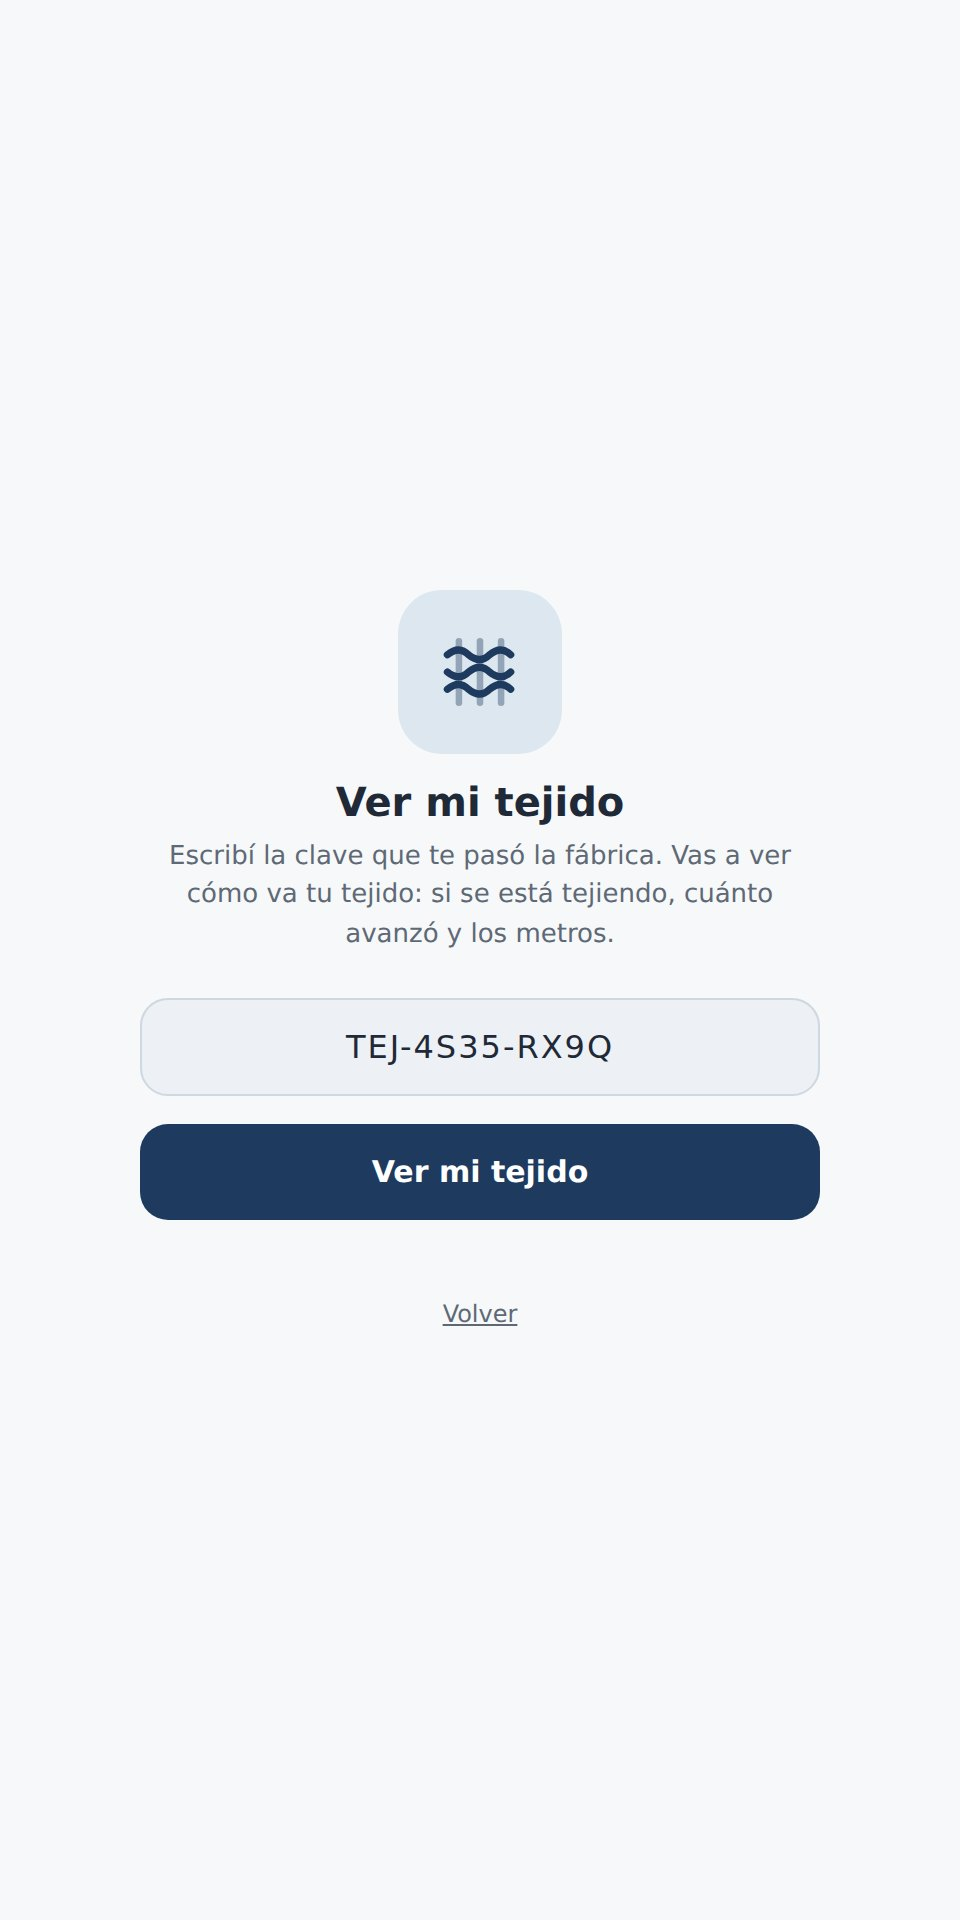
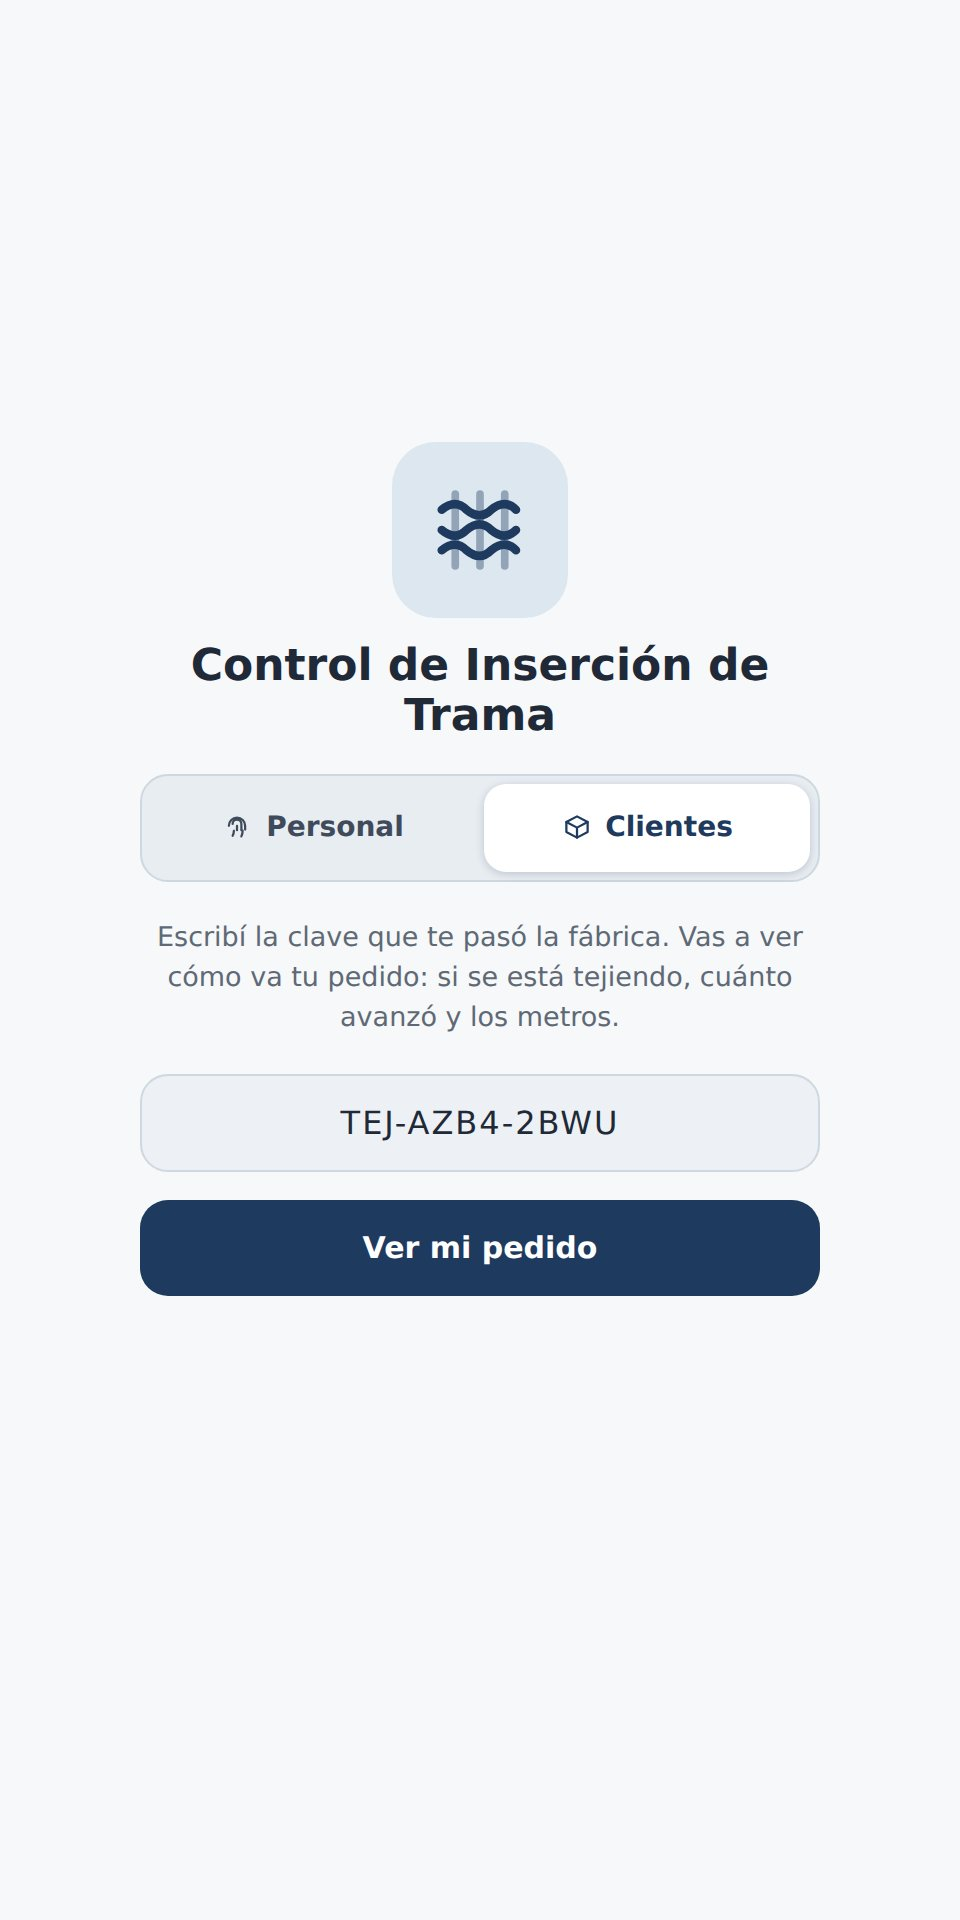
Add files via upload

Changed region(s): [[0.125, 0.2188, 0.875, 0.6875], [0.8438, 0.4062, 0.875, 0.4375]]

diff --git a/index.html b/index.html
@@ -33,7 +33,7 @@
 <a href="#web-2-2" class="n1" data-pad="2">2.2 · Registrar la huella dactilar por primera vez</a>
 <a href="#web-2-3" class="n1" data-pad="2">2.3 · No se puede ingresar con la huella (recupero de acceso)</a>
 <a href="#web-2-4" class="n1" data-pad="2">2.4 · Continuar sin iniciar sesión (modo invitado)</a>
-<a href="#web-2-5" class="n1" data-pad="2">2.5 · Soy cliente: ver mi tejido</a>
+<a href="#web-2-5" class="n1" data-pad="2">2.5 · Clientes: ver cómo va el pedido</a>
 <div class="ngrupo"><a href="#web-3" class="n0">3 · Pantalla de Inicio</a><button type="button" class="plg" aria-label="Plegar" data-num="3"></button></div>
 <a href="#web-3-1" class="n1" data-pad="3">3.1 · Información de sesión</a>
 <a href="#web-3-2" class="n1" data-pad="3">3.2 · Dibujo actual</a>
@@ -99,7 +99,7 @@
   </div>
 
   <div class="pane" data-pane="web">
-<div class="qs"><h2>Guía de inicio rápido</h2><div class="qs-sub">Del primer ingreso al primer dibujo tejido, en unos minutos</div><span class="qs-et">Antes de empezar</span><div class="qs-antes"><div><b>Un celular o computadora con navegador</b><span>No hace falta instalar nada: la aplicación se abre desde el navegador y funciona igual en Android, iPhone o PC.</span></div><div><b>Conexión a la red de la fábrica</b><span>La misma red WiFi a la que está conectado el nodo de control del telar. Sin red, la aplicación muestra el último estado conocido pero no puede enviar órdenes.</span></div><div><b>Un usuario registrado</b><span>Si es la primera vez, la propia aplicación guía el registro con huella dactilar. Los tres primeros usuarios se registran libremente; del cuarto en adelante hace falta un código de invitación.</span></div></div><span class="qs-et">Los pasos</span><div class="qs-pasos"><div class="qs-paso"><div class="n"></div><div class="tx"><b>Abrir la aplicación</b><p>Entrar a la dirección del sistema desde el navegador del celular. Conviene agregarla a la pantalla de inicio: queda como un ícono más y se abre a pantalla completa, sin la barra del navegador.</p><div class="tip">Aparece la pantalla de ingreso con el nombre del sistema y los dos botones de acceso.</div></div></div><div class="qs-paso"><div class="n"></div><div class="tx"><b>Ingresar con la huella</b><p>Escribir el nombre de usuario y tocar &quot;Entrar con huella dactilar&quot;. El teléfono pide apoyar el dedo en su lector. La huella nunca sale del dispositivo: solo viaja una firma que el servidor verifica.</p><div class="tip">Si es la primera vez, tocar &quot;Registrar mi huella dactilar&quot; y guardar el código de recuperación que aparece. Es la única forma de recuperar el acceso si el lector falla o cambiás de teléfono. Aparece en ese momento y después se puede volver a ver desde el perfil, verificando la huella.</div></div></div><div class="qs-paso"><div class="n"></div><div class="tx"><b>Reconocer la pantalla de inicio</b><p>Arriba está quién inició sesión y el dibujo que está en edición. Abajo, los accesos al Editor y a la Biblioteca. El estado del telar en tiempo real se ve en el Editor, arriba de la grilla, y refleja la máquina real aunque alguien la haya movido desde la botonera.</p><div class="tip">Si en el Editor dice &quot;Sin datos del ESP32&quot; o &quot;Sin conexión&quot;, el nodo no está respondiendo. Conviene revisar la red antes de intentar cualquier orden.</div></div></div><div class="qs-paso"><div class="n"></div><div class="tx"><b>Definir el tamaño del dibujo</b><p>En el Editor, escribir cuántas filas y columnas tiene el dibujo y tocar Aplicar. Cada fila es una pasada con una sola bobina (en cada pasada entra una sola trama), que se teje en una o más pasadas seguidas; cada columna es una bobina. Las filas van de 1 a 300 y las columnas de 1 a 8, porque cada columna es una bobina de selección y ninguna máquina tiene más.</p><div class="tip">Si se escribe un número fuera de ese rango, la aplicación avisa y lo corrige. Cambiar el tamaño reinicia la matriz, así que conviene definirlo antes de dibujar.</div></div></div><div class="qs-paso"><div class="n"></div><div class="tx"><b>Dibujar la matriz</b><p>Tocar las celdas para marcarlas. Una celda marcada muestra un 1 y significa que esa bobina se activa en esa pasada. Tocarla de nuevo la desmarca. Cada fila lleva una sola bobina: si se toca otra celda de la misma fila, la anterior se desmarca sola.</p><div class="tip">Para repetir una pasada, cada fila lleva un número de repeticiones al costado: cuántas pasadas seguidas se teje esa misma fila. Para alternar bobinas pasada por pasada, cada una va en su fila y esas filas se agrupan con Intercalar. El botón Limpiar vacía la matriz sin cambiar su tamaño.</div></div></div><div class="qs-paso"><div class="n"></div><div class="tx"><b>Guardar el dibujo</b><p>Ponerle un nombre y tocar Guardar. La aplicación pregunta si se guarda sobre el dibujo actual o se crea uno nuevo. Los nombres no se pueden repetir.</p><div class="tip">Un dibujo que ya se usó para tejer no se puede borrar, porque queda registrado en el historial de producción. Sí se le puede cambiar el nombre.</div></div></div><div class="qs-paso"><div class="n"></div><div class="tx"><b>Cargar y ejecutar</b><p>Desde la Biblioteca, elegir el dibujo y asignarlo al telar. Con el dibujo cargado, el botón de reproducción arranca la máquina.</p><div class="tip">Pausa detiene conservando la posición y Retroceder mueve una pasada hacia atrás, para corregir tras una rotura de hilo. Las dos funcionan en cualquier momento, salvo en solo sensado (ver abajo).</div></div></div></div><span class="qs-et">Conviene saber</span><div class="qs-saber"><ul><li>La botonera del telar sigue funcionando siempre. La aplicación no la reemplaza: se suma en paralelo.</li><li>Si se corta la conexión, el sistema no acciona nada y el telar queda como estaba. Al volver la red no ejecuta órdenes acumuladas.</li><li>Si la barra del editor dice «Solo sensado», la página no mueve el telar: se maneja con la botonera. El interruptor de esa misma barra vuelve a prender el control.</li><li>El modo oscuro está pensado para las horas de poca luz en la planta y se activa desde la pantalla de inicio.</li><li>La ficha técnica de cada dibujo se descarga en PDF desde el editor, para llevarla impresa al puesto.</li></ul></div></div><p>Explicación completa, paso a paso, de cómo se usa la aplicación web de control del telar: la secuencia de operaciones, qué hace cada pantalla y qué significa cada botón. Cada sección incluye las capturas de la aplicación tal como se ve hoy.</p>
+<div class="qs"><h2>Guía de inicio rápido</h2><div class="qs-sub">Del primer ingreso al primer dibujo tejido, en unos minutos</div><span class="qs-et">Antes de empezar</span><div class="qs-antes"><div><b>Un celular o computadora con navegador</b><span>No hace falta instalar nada: la aplicación se abre desde el navegador y funciona igual en Android, iPhone o PC.</span></div><div><b>Conexión a la red de la fábrica</b><span>La misma red WiFi a la que está conectado el nodo de control del telar. Sin red, la aplicación muestra el último estado conocido pero no puede enviar órdenes.</span></div><div><b>Un usuario registrado</b><span>Si es la primera vez, la propia aplicación guía el registro con huella dactilar. Los tres primeros usuarios se registran libremente; del cuarto en adelante hace falta un código de invitación.</span></div></div><span class="qs-et">Los pasos</span><div class="qs-pasos"><div class="qs-paso"><div class="n"></div><div class="tx"><b>Abrir la aplicación</b><p>Entrar a la dirección del sistema desde el navegador del celular. Conviene agregarla a la pantalla de inicio: queda como un ícono más y se abre a pantalla completa, sin la barra del navegador.</p><div class="tip">Aparece la pantalla de ingreso, con las pestañas «Personal» y «Clientes»; en la del personal están los dos botones de acceso.</div></div></div><div class="qs-paso"><div class="n"></div><div class="tx"><b>Ingresar con la huella</b><p>Escribir el nombre de usuario y tocar &quot;Entrar con huella dactilar&quot;. El teléfono pide apoyar el dedo en su lector. La huella nunca sale del dispositivo: solo viaja una firma que el servidor verifica.</p><div class="tip">Si es la primera vez, tocar &quot;Registrar mi huella dactilar&quot; y guardar el código de recuperación que aparece. Es la única forma de recuperar el acceso si el lector falla o cambiás de teléfono. Aparece en ese momento y después se puede volver a ver desde el perfil, verificando la huella.</div></div></div><div class="qs-paso"><div class="n"></div><div class="tx"><b>Reconocer la pantalla de inicio</b><p>Arriba está quién inició sesión y el dibujo que está en edición. Abajo, los accesos al Editor y a la Biblioteca. El estado del telar en tiempo real se ve en el Editor, arriba de la grilla, y refleja la máquina real aunque alguien la haya movido desde la botonera.</p><div class="tip">Si en el Editor dice &quot;Sin datos del ESP32&quot; o &quot;Sin conexión&quot;, el nodo no está respondiendo. Conviene revisar la red antes de intentar cualquier orden.</div></div></div><div class="qs-paso"><div class="n"></div><div class="tx"><b>Definir el tamaño del dibujo</b><p>En el Editor, escribir cuántas filas y columnas tiene el dibujo y tocar Aplicar. Cada fila es una pasada con una sola bobina (en cada pasada entra una sola trama), que se teje en una o más pasadas seguidas; cada columna es una bobina. Las filas van de 1 a 300 y las columnas de 1 a 8, porque cada columna es una bobina de selección y ninguna máquina tiene más.</p><div class="tip">Si se escribe un número fuera de ese rango, la aplicación avisa y lo corrige. Cambiar el tamaño reinicia la matriz, así que conviene definirlo antes de dibujar.</div></div></div><div class="qs-paso"><div class="n"></div><div class="tx"><b>Dibujar la matriz</b><p>Tocar las celdas para marcarlas. Una celda marcada muestra un 1 y significa que esa bobina se activa en esa pasada. Tocarla de nuevo la desmarca. Cada fila lleva una sola bobina: si se toca otra celda de la misma fila, la anterior se desmarca sola.</p><div class="tip">Para repetir una pasada, cada fila lleva un número de repeticiones al costado: cuántas pasadas seguidas se teje esa misma fila. Para alternar bobinas pasada por pasada, cada una va en su fila y esas filas se agrupan con Intercalar. El botón Limpiar vacía la matriz sin cambiar su tamaño.</div></div></div><div class="qs-paso"><div class="n"></div><div class="tx"><b>Guardar el dibujo</b><p>Ponerle un nombre y tocar Guardar. La aplicación pregunta si se guarda sobre el dibujo actual o se crea uno nuevo. Los nombres no se pueden repetir.</p><div class="tip">Un dibujo que ya se usó para tejer no se puede borrar, porque queda registrado en el historial de producción. Sí se le puede cambiar el nombre.</div></div></div><div class="qs-paso"><div class="n"></div><div class="tx"><b>Cargar y ejecutar</b><p>Desde la Biblioteca, elegir el dibujo y asignarlo al telar. Con el dibujo cargado, el botón de reproducción arranca la máquina.</p><div class="tip">Pausa detiene conservando la posición y Retroceder mueve una pasada hacia atrás, para corregir tras una rotura de hilo. Las dos funcionan en cualquier momento, salvo en solo sensado (ver abajo).</div></div></div></div><span class="qs-et">Conviene saber</span><div class="qs-saber"><ul><li>La botonera del telar sigue funcionando siempre. La aplicación no la reemplaza: se suma en paralelo.</li><li>Si se corta la conexión, el sistema no acciona nada y el telar queda como estaba. Al volver la red no ejecuta órdenes acumuladas.</li><li>Si la barra del editor dice «Solo sensado», la página no mueve el telar: se maneja con la botonera. El interruptor de esa misma barra vuelve a prender el control.</li><li>El modo oscuro está pensado para las horas de poca luz en la planta y se activa desde la pantalla de inicio.</li><li>La ficha técnica de cada dibujo se descarga en PDF desde el editor, para llevarla impresa al puesto.</li></ul></div></div><p>Explicación completa, paso a paso, de cómo se usa la aplicación web de control del telar: la secuencia de operaciones, qué hace cada pantalla y qué significa cada botón. Cada sección incluye las capturas de la aplicación tal como se ve hoy.</p>
 <section id="web-1">
 <h2><span class="n">1</span>Qué es esta aplicación</h2>
 <p>La aplicación web &quot;Control de Inserción de Trama&quot; es el sistema que reemplaza, a nivel de diseño y de datos, a la máquina lectora de secuencia del telar (la que hoy funciona con tarjetas o cinta perforada física). Desde la web se hace lo siguiente:</p>
@@ -115,8 +115,8 @@
 </section>
 <section id="web-2">
 <h2><span class="n">2</span>Ingresar a la aplicación (inicio de sesión)</h2>
-<p>Al abrir la página aparece la pantalla de ingreso. Existen cinco caminos posibles, según la situación: los cuatro primeros son para el equipo de la fábrica y el quinto, para sus clientes.</p>
-<figure class="tel"><img src="img/web_image4.jpg" alt="Pantalla de ingreso, con las opciones disponibles." loading="lazy"><figcaption>Pantalla de ingreso, con las opciones disponibles.</figcaption></figure>
+<p>Al abrir la página aparece la pantalla de ingreso. Hay cinco caminos: los cuatro primeros, en la pestaña «Personal», son para el equipo de la fábrica, y el quinto, en «Clientes», para sus clientes.</p>
+<figure class="tel"><img src="img/web_image4.jpg" alt="Pantalla de ingreso, con las pestañas «Personal» y «Clientes»." loading="lazy"><figcaption>Pantalla de ingreso, con las pestañas «Personal» y «Clientes».</figcaption></figure>
 <h3 id="web-2-1">2.1. Ingresar con huella dactilar (usuario ya registrado)</h3>
 <ul>
 <li><span class="num">1</span>Escribir el nombre de usuario en el campo correspondiente.</li>
@@ -156,14 +156,14 @@
 <li>Puede crear dibujos nuevos, y cambiar o borrar solo los que creó como invitado. Los dibujos de los operarios los puede abrir y mirar, pero no modificarlos ni borrarlos: al intentarlo, la aplicación avisa «este dibujo es de los operarios». Cuando un operario guarda un dibujo hecho por un invitado, pasa a ser de los operarios.</li>
 </ul>
 <p>Para usar todas las funciones, tocar «Iniciar sesión» en la pantalla de Inicio y entrar con la huella o con el código.</p>
-<h3 id="web-2-5">2.5. Soy cliente: ver mi tejido</h3>
-<p>Es la entrada para los clientes de la fábrica. Un cliente no tiene usuario ni huella: entra con la clave de su tejido, que le pasa la fábrica (se genera desde la ficha del dibujo, ver el punto 4.10), y ve solo ese tejido, sin ningún control del telar.</p>
+<h3 id="web-2-5">2.5. Clientes: ver cómo va el pedido</h3>
+<p>Es la pestaña para los clientes de la fábrica. Un cliente no tiene usuario ni huella: entra con la clave de su tejido, que le pasa la fábrica (se genera desde la ficha del dibujo, ver el punto 4.10), y ve solo ese tejido, sin ningún control del telar.</p>
 <ul>
-<li><span class="num">1</span>Tocar «Soy cliente: ver mi tejido», debajo de las opciones de ingreso.</li>
+<li><span class="num">1</span>Tocar la pestaña «Clientes», arriba de todo en la pantalla de ingreso.</li>
 <li><span class="num">2</span>Escribir la clave, por ejemplo TEJ-K7QX-4AMP. No importan las mayúsculas, los espacios ni los guiones.</li>
-<li><span class="num">3</span>Tocar «Ver mi tejido».</li>
+<li><span class="num">3</span>Tocar «Ver mi pedido».</li>
 </ul>
-<figure class="tel"><img src="img/web_cliente_ingreso.jpg" alt="Ingreso del cliente con la clave de su tejido." loading="lazy"><figcaption>Ingreso del cliente con la clave de su tejido.</figcaption></figure>
+<figure class="tel"><img src="img/web_cliente_ingreso.jpg" alt="Pestaña «Clientes»: el ingreso del cliente con la clave de su tejido." loading="lazy"><figcaption>Pestaña «Clientes»: el ingreso del cliente con la clave de su tejido.</figcaption></figure>
 <p>La vista del cliente muestra:</p>
 <ul>
 <li>Si el tejido se está tejiendo ahora, si está en pausa o si no se está tejiendo, en qué telar, desde cuándo y por qué fila y pasada del dibujo va.</li>
@@ -384,7 +384,7 @@
 <details><summary>¿Qué pasa si dos personas editan el mismo dibujo a la vez?</summary><div class="bd">La aplicación lo detecta. Si otra persona guardó un cambio en el dibujo mientras lo editabas, al guardar aparece el aviso «Dibujo modificado» y se carga la versión más reciente, con los cambios de la otra persona. Conviene revisar si falta alguno de los propios y volver a hacerlo. Así ninguna de las dos pisa sin darse cuenta lo que hizo la otra.</div></details>
 <details><summary>¿Por qué las pasadas y los metros aparecen con «≈»?</summary><div class="bd">Porque hasta que se instale y se valide el sensor de pasada, la aplicación no mide las pasadas: las estima por tiempo, al ritmo de la máquina (300 pasadas por minuto), mientras el tejido está en marcha en una pantalla abierta. Si hay varias pantallas mostrando el mismo tejido, la cuenta la lleva una sola, para no contar dos veces; si esa se cierra, otra la toma en un par de segundos. Si no queda ninguna abierta (se bloquea la pantalla, se cierra la aplicación o se pierde la conexión), la estimación se detiene o se atrasa aunque el telar siga tejiendo, y el número queda por debajo de lo real. Por eso se muestra como aproximado. Con el sensor instalado, el conteo lo lleva la máquina y no depende de ninguna pantalla.</div></details>
 <details><summary>¿Para qué sirve «Solo sensado»?</summary><div class="bd">Para manejar el telar solo con su botonera sin perder el seguimiento: por ejemplo, mientras se prueba el sistema en la fábrica, o cuando se prefiere que nadie pueda mover la máquina desde un celular. La página sigue mostrando lo que hace la máquina y llevando la cuenta, y el equipo de control no acciona los relés. Se apaga y se prende desde el interruptor de la barra de estado del editor (punto 4.3).</div></details>
-<details><summary>¿Qué ve un cliente con su clave?</summary><div class="bd">Solo su tejido: si se está tejiendo, por qué fila y pasada va, los metros tejidos y cuánto lleva de su pedido, cómo se ve la tela y las últimas tandas de producción. No ve otros dibujos ni puede tocar el telar. La clave se genera desde la ficha del dibujo (punto 4.10), y el cliente entra con «Soy cliente: ver mi tejido» (punto 2.5).</div></details>
+<details><summary>¿Qué ve un cliente con su clave?</summary><div class="bd">Solo su tejido: si se está tejiendo, por qué fila y pasada va, los metros tejidos y cuánto lleva de su pedido, cómo se ve la tela y las últimas tandas de producción. No ve otros dibujos ni puede tocar el telar. La clave se genera desde la ficha del dibujo (punto 4.10), y el cliente entra desde la pestaña «Clientes» de la pantalla de ingreso (punto 2.5).</div></details>
 </section>
 </div>
 
